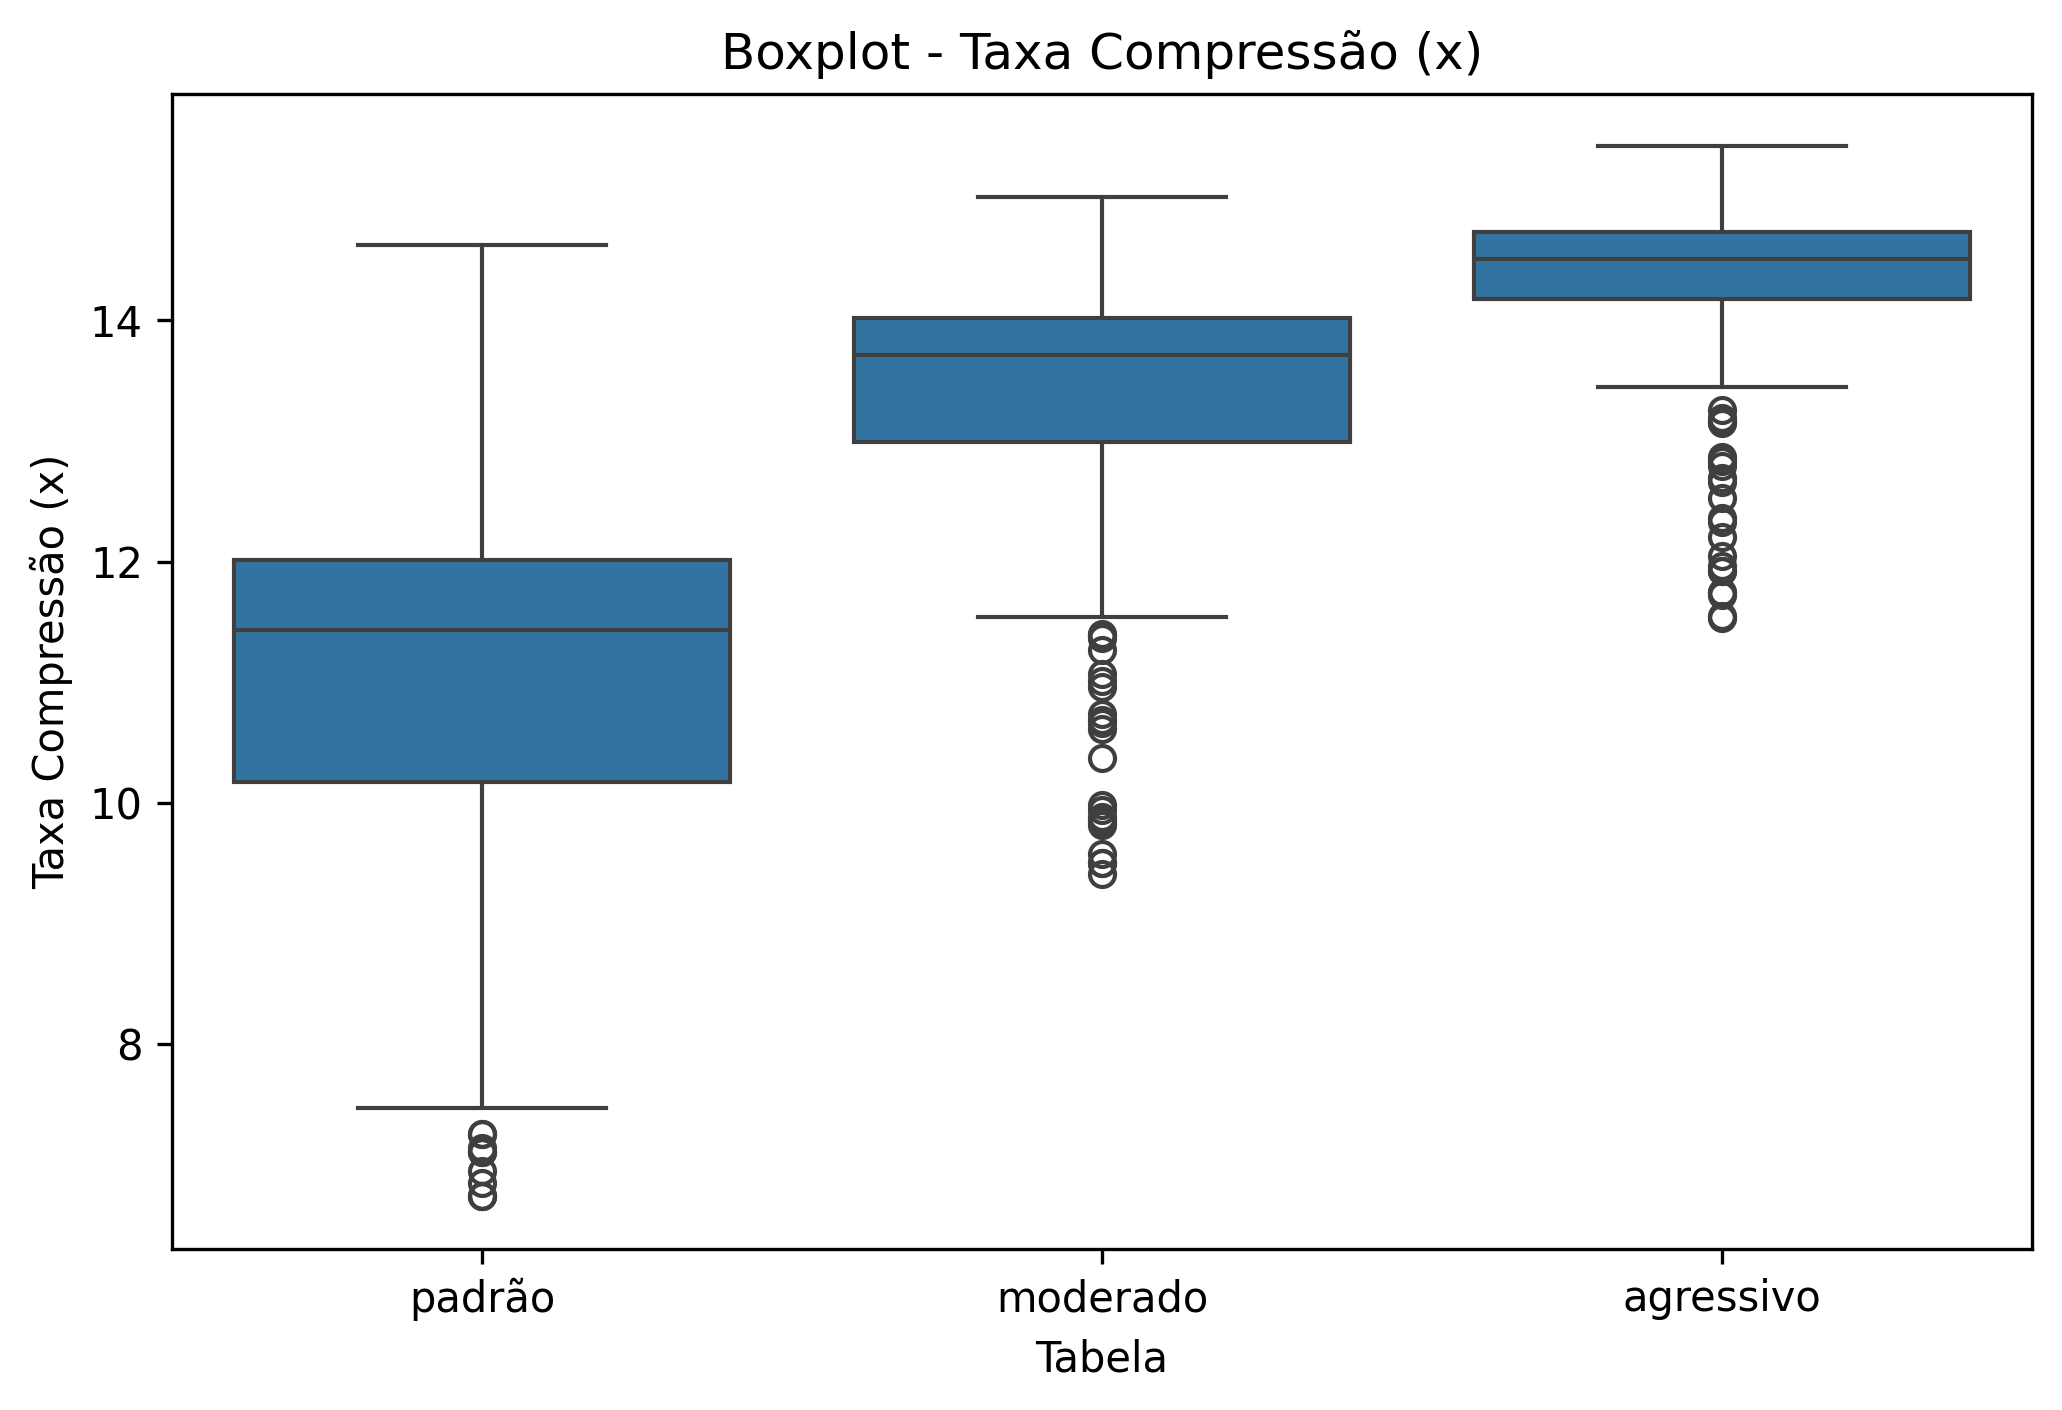
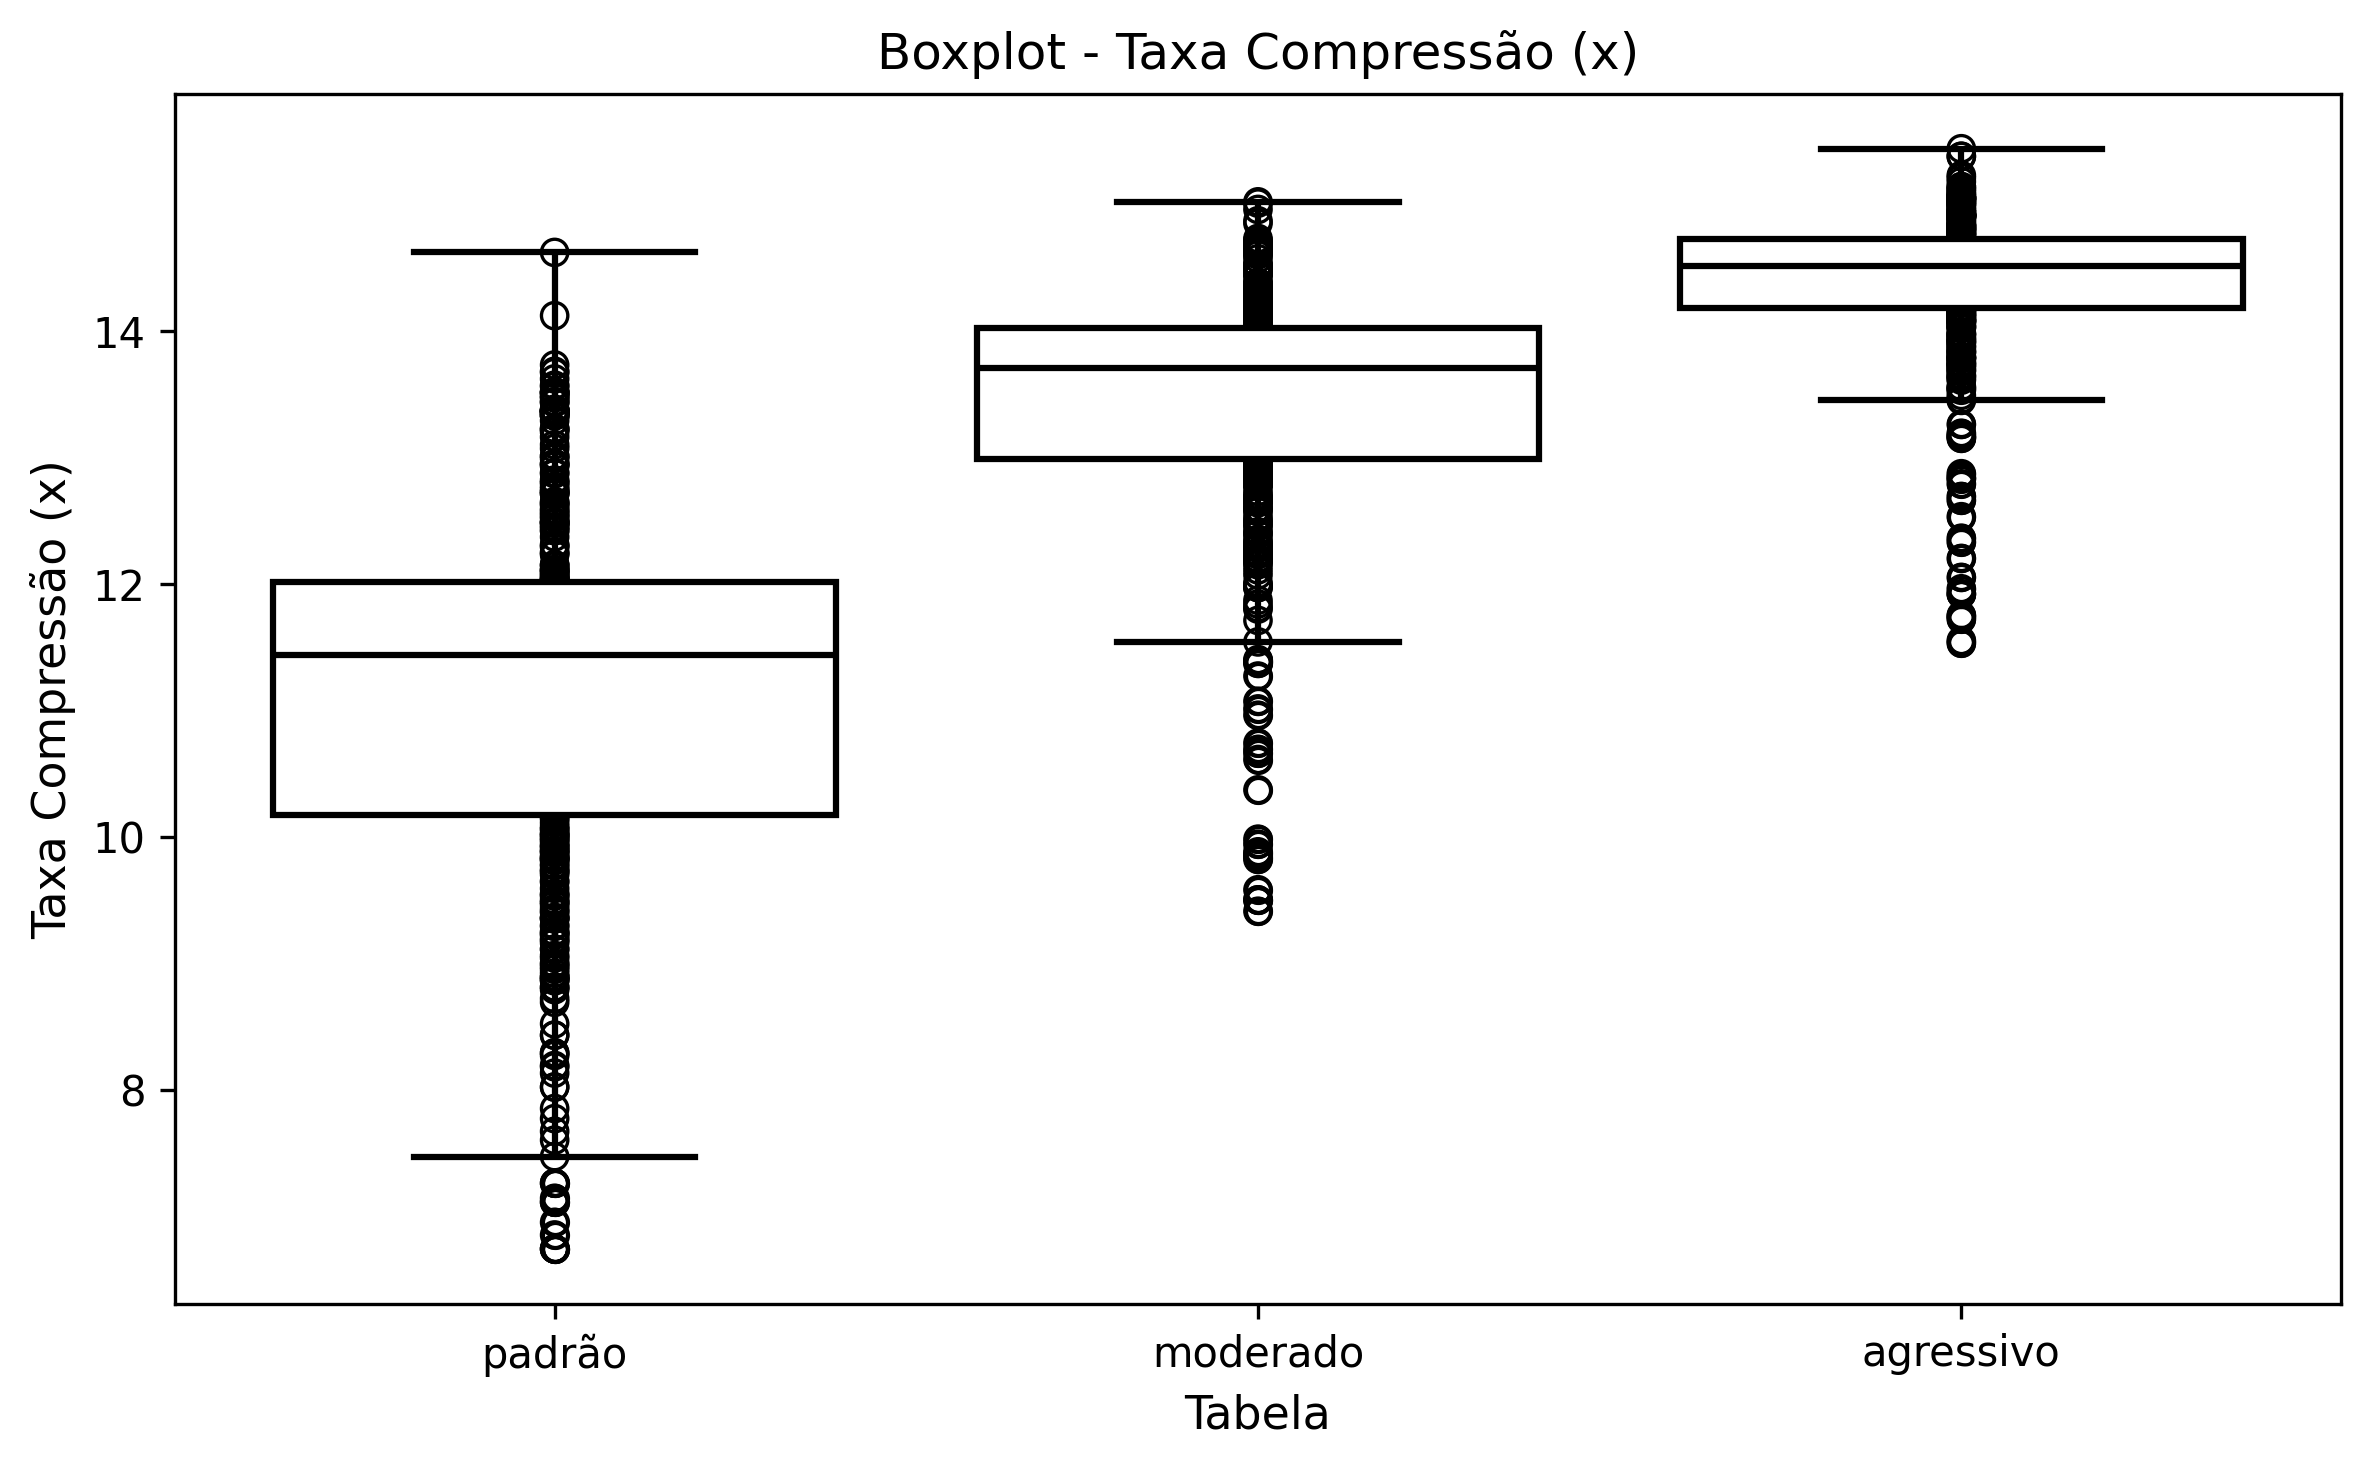
ajuste na plotagem

Changed region(s): [[0.0, 0.0, 0.9932, 0.9986], [0.4035, 0.1248, 0.6828, 0.6241]]

diff --git a/JPEG_Algorithm_Transform.py b/JPEG_Algorithm_Transform.py
@@ -326,21 +326,58 @@ for img_nome in img_comparativo:
 # ---------------------------
 # --- BoxPlot por Métrica ---
 # ---------------------------
-metrics = ['PSNR','SSIM','% Coef. Zerados','Taxa Compressão (x)']
+# ---------------------------
+# --- BoxPlot por Métrica ---
+# ---------------------------
+metrics = ['PSNR', 'SSIM', '% Coef. Zerados', 'Taxa Compressão (x)']
+
 for metric in metrics:
     if metric not in df_clean.columns:
         continue
+
     df_plot = df_clean[['Transformada', metric]].dropna()
-    order = [t for t in transformadas if not df_plot[df_plot['Transformada']==t].empty]
+    order = [t for t in transformadas if not df_plot[df_plot['Transformada'] == t].empty]
+
     if df_plot.empty or len(order) == 0:
         print(f"Sem dados válidos para boxplot de {metric}. Pulando.")
         continue
-    plt.figure(figsize=(8,5))
-    sns.boxplot(x='Transformada', y=metric, data=df_plot, order=order)
-    plt.title(f'Boxplot - {metric}')
-    # plt.show()
-    plt.savefig(f"./img_saida/Transform/BoxPlot_{metric}.png", dpi=300, bbox_inches="tight")
+
+    plt.figure(figsize=(8, 5))
+
+    # Boxplot em preto e branco
+    sns.boxplot(
+        x='Transformada',
+        y=metric,
+        data=df_plot,
+        order=order,
+        color='white',
+        showcaps=True,
+        linewidth=1.5,
+        boxprops={'edgecolor': 'black'},
+        medianprops={'color': 'black'},
+        whiskerprops={'color': 'black'},
+        capprops={'color': 'black'},
+        flierprops={'marker': 'o', 'markerfacecolor': 'none', 'markeredgecolor': 'black'}
+    )
+
+    # Adiciona todas as ocorrências (pontos vazios)
+    transform_map = {t: i for i, t in enumerate(order)}
+    plt.scatter(
+        x=[transform_map[t] for t in df_plot['Transformada']],
+        y=df_plot[metric],
+        facecolors='none',
+        edgecolors='black',
+        s=40,
+        linewidths=0.8
+    )
+
+    plt.title(f'Boxplot - {metric}', fontsize=12)
+    plt.xlabel('Transformada', fontsize=11)
+    plt.ylabel(metric, fontsize=11)
+    plt.tight_layout()
+    plt.savefig(f"./img_saida/Transform/BoxPlot_{metric}.png", dpi=300, bbox_inches='tight')
     plt.close()
+
 
 # ------------------------------------------
 # --- Scatter plot vs Taxa de Compressão ---
@@ -361,23 +398,4 @@ for met in ['PSNR','SSIM','% Coef. Zerados']:
     plt.legend()
     # plt.show()
     plt.savefig(f"./img_saida/Transform/ScatterPlot_{met}.png", dpi=300, bbox_inches="tight")
-    plt.close()
-
-# ---------------------------
-# --- Gráfico de violino ---
-# ---------------------------
-for met in metrics:
-    if met not in df_clean.columns:
-        continue
-    df_plot = df_clean[['Transformada', met]].dropna()
-    order = [t for t in transformadas if not df_plot[df_plot['Transformada']==t].empty]
-    if df_plot.empty or len(order)==0:
-        print(f"Sem dados válidos para violin plot de {met}. Pulando.")
-        continue
-    plt.figure(figsize=(8,5))
-    sns.violinplot(x='Transformada', y=met, data=df_plot, order=order, inner='box')
-    plt.title(f"Violin Plot - {met}")
-    plt.grid(True)
-    # plt.show()
-    plt.savefig(f"./img_saida/Transform/ViolinPlot_{met}.png", dpi=300, bbox_inches="tight")
     plt.close()

diff --git a/JPEG_Algorithm_Quantization.py b/JPEG_Algorithm_Quantization.py
@@ -223,7 +223,6 @@ for arquivo in arquivos:
             plt.axis("off")
 
         plt.tight_layout()
-        # plt.show()
         plt.savefig(f"./img_saida/Quantization/Comparativo/{nome_img}.png", dpi=300, bbox_inches="tight")
         plt.close()
 
@@ -236,13 +235,50 @@ df = pd.DataFrame(resultados_gerais)
 # ---------------------------
 # --- BoxPlot por Métrica ---
 # ---------------------------
-for metric in ['PSNR','SSIM','% Coef. Zerados','Taxa Compressão (x)']:
-    plt.figure(figsize=(8,5))
-    sns.boxplot(x='Tabela', y=metric, data=df)
-    plt.title(f'Boxplot - {metric}')
-    # plt.show()
+# ---------------------------
+# --- BoxPlot por Métrica ---
+# ---------------------------
+# ---------------------------
+# --- BoxPlot por Métrica ---
+# ---------------------------
+for metric in ['PSNR', 'SSIM', '% Coef. Zerados', 'Taxa Compressão (x)']:
+    plt.figure(figsize=(8, 5))
+
+    # Boxplot preto e branco, sem preenchimento de cor
+    sns.boxplot(
+        x='Tabela',
+        y=metric,
+        data=df,
+        color='white',
+        showcaps=True,
+        linewidth=1.5,
+        boxprops={'edgecolor': 'black'},
+        medianprops={'color': 'black'},
+        whiskerprops={'color': 'black'},
+        capprops={'color': 'black'},
+        flierprops={'marker': 'o', 'markerfacecolor': 'none', 'markeredgecolor': 'black'}
+    )
+
+    # Adiciona TODAS as ocorrências (não apenas outliers)
+    # Bolinhas vazias (facecolors='none') e contorno preto (edgecolors='black')
+    # Sem dispersão horizontal (jitter=0)
+    tabelas_map = {'padrão': 0, 'moderado': 1, 'agressivo': 2}
+    plt.scatter(
+        x=[tabelas_map[t] for t in df['Tabela']],
+        y=df[metric],
+        facecolors='none',
+        edgecolors='black',
+        s=40,
+        linewidths=0.8
+    )
+
+    plt.title(f'Boxplot - {metric}', fontsize=12)
+    plt.xlabel('Tabela', fontsize=11)
+    plt.ylabel(metric, fontsize=11)
+    plt.tight_layout()
     plt.savefig(f"./img_saida/Quantization/BoxPlot_{metric}.png", dpi=300, bbox_inches="tight")
     plt.close()
+
 
 
 # ------------------------------------------
@@ -261,19 +297,5 @@ for met in metricas:
     plt.ylabel(met)
     plt.grid(True)
     plt.legend()
-    # plt.show()
     plt.savefig(f"./img_saida/Quantization/ScatterPlot_{met}.png", dpi=300, bbox_inches="tight")
-    plt.close()
-
-# ---------------------------
-# --- Gráfico de violino ---
-# ---------------------------
-metricas = ['PSNR', 'SSIM', '% Coef. Zerados', 'Taxa Compressão (x)']
-for met in metricas:
-    plt.figure(figsize=(8,5))
-    sns.violinplot(x='Tabela', y=met, data=df)
-    plt.title(f"Violin Plot - {met}")
-    plt.grid(True)
-    # plt.show()
-    plt.savefig(f"./img_saida/Quantization/ViolinPlot_{met}.png", dpi=300, bbox_inches="tight")
     plt.close()
